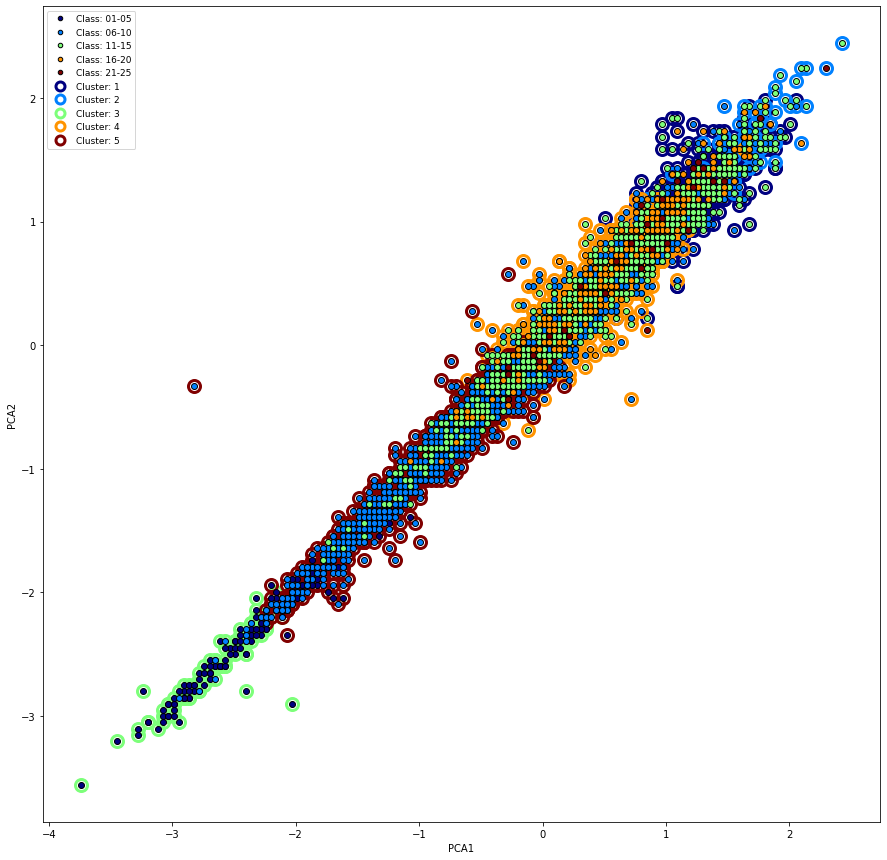
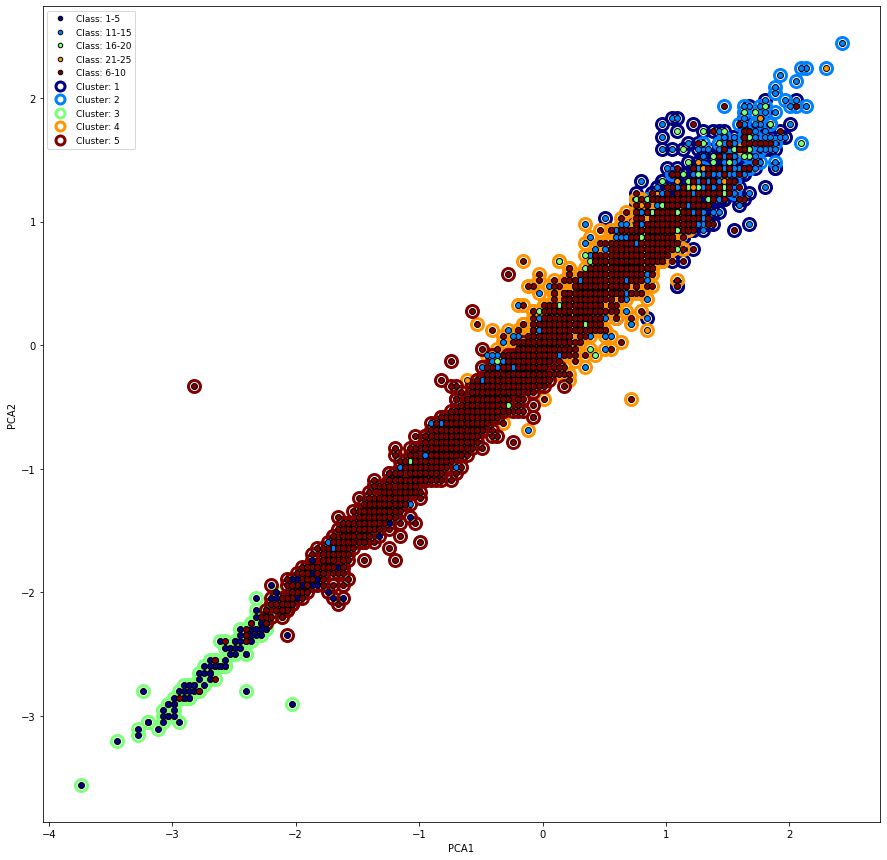
project 3 clustering final.. hopefully

Changed region(s): [[0.274, 0.1209, 0.9132, 0.7558], [0.1218, 0.0, 0.1522, 0.0907]]

diff --git a/Project3/Clustering.py b/Project3/Clustering.py
@@ -10,15 +10,12 @@ from scipy.cluster.hierarchy import linkage, fcluster, dendrogram
 # See algorithm 6, page 173 for insiparation 
 #Import data
 from main import *
+from main import scatterplot
 
 # Ignore FutureWarnings
 import warnings
 warnings.simplefilter(action='ignore', category=FutureWarning)
 
-######################################################################
-# NOTICE -  THE FOLLOWING CODE IS CURRENTLY MADE FOR THE WHOLE DATA SET
-#           I.E. THE INITIALLY CATEGORIZED OUTLIERS ARE IN THE DATA SET!
-######################################################################
 
 ################################################
 # EXCLUSION OF OULIERS
@@ -82,6 +79,16 @@ X = Newscaleddf[attributeNamesC[:5]]
 N, M = X.shape
 C = len(np.unique(Newscaleddf.RingsGroup))
 
+# Plot the data to illustrate data point distribution
+figure(1,figsize=(15,15))
+xlabel('PCA1')
+ylabel('PCA2')
+scatterplot(X, y=y)
+
+
+################################################
+# HIERARCHICAL CLISTERING
+################################################
 
 # Perform hierarchical/agglomerative clustering on data matrix
 #Method = 'single'
@@ -112,7 +119,7 @@ print("Accuracy of the heirarchical clustering:", accuracy_hierarchical)
 
 
 ################################################
-# Gaussian Mixture Model
+# GAUSSIAN MIXTURE MODEL
 ################################################
 
 # Range of K's to try
@@ -130,42 +137,42 @@ CVE = np.zeros((T,))
 
 # K-fold crossvalidation
 CV = model_selection.KFold(n_splits=10,shuffle=True)
-#
-#for t,K in enumerate(KRange):
-#        print('Fitting model for K={0}'.format(K))
-#
-#        # Fit Gaussian mixture model
-#        gmm = GaussianMixture(n_components=K, covariance_type=covar_type, 
-#                              n_init=reps, init_params=init_procedure,
-#                              tol=1e-6, reg_covar=1e-6).fit(X)
-#        
-#        # Get BIC and AIC
-#        BIC[t,] = gmm.bic(X)
-#        AIC[t,] = gmm.aic(X)
-#
-#        # For each crossvalidation fold
-#        for train_index, test_index in CV.split(X):
-#
-#            # extract training and test set for current CV fold
-#            X_train = X.to_numpy()[train_index,:]
-#            X_test = X.to_numpy()[test_index,:]
-#
-#            # Fit Gaussian mixture model to X_train
-#            gmm = GaussianMixture(n_components=K, covariance_type=covar_type, n_init=reps).fit(X_train)
-#
-#            # compute negative log likelihood of X_test
-#            CVE[t] += -gmm.score_samples(X_test).sum()
-#            
-#
-## Plot results
-#figure(3);
-#plot(KRange, BIC,'-*b')
-#plot(KRange, AIC,'-xr')
-#plot(KRange, 2*CVE,'-ok')
-#legend(['BIC', 'AIC', 'Crossvalidation'])
-#xlabel('K')
-#ylabel('Error')
-#show()
+
+for t,K in enumerate(KRange):
+        print('Fitting model for K={0}'.format(K))
+
+        # Fit Gaussian mixture model
+        gmm = GaussianMixture(n_components=K, covariance_type=covar_type, 
+                              n_init=reps, init_params=init_procedure,
+                              tol=1e-6, reg_covar=1e-6).fit(X)
+        
+        # Get BIC and AIC
+        BIC[t,] = gmm.bic(X)
+        AIC[t,] = gmm.aic(X)
+
+        # For each crossvalidation fold
+        for train_index, test_index in CV.split(X):
+
+            # extract training and test set for current CV fold
+            X_train = X.to_numpy()[train_index,:]
+            X_test = X.to_numpy()[test_index,:]
+
+            # Fit Gaussian mixture model to X_train
+            gmm = GaussianMixture(n_components=K, covariance_type=covar_type, n_init=reps).fit(X_train)
+
+            # compute negative log likelihood of X_test
+            CVE[t] += -gmm.score_samples(X_test).sum()
+            
+
+# Plot results
+figure(3);
+plot(KRange, BIC,'-*b')
+plot(KRange, AIC,'-xr')
+plot(KRange, 2*CVE,'-ok')
+legend(['BIC', 'AIC', 'Crossvalidation'])
+xlabel('K')
+ylabel('Error')
+show()
 
 ### Computing the GMM
 # With the above, the K to test on is determined
@@ -189,15 +196,38 @@ if cov_type.lower() == 'diag':
         temp_m = np.zeros([M,M])
         new_covs[count] = np.diag(elem)
         count += 1
-
     covs = new_covs
 
 # Plot results:
-#figure(figsize=(14,9))
-#clusterplot(X, clusterid=cls, centroids=cds, y=y, covars=covs)
-#plt.legend(legend_items, numpoints=1, markerscale=.75, prop={'size': 9})
-#show()
+
 figure(figsize=(14,9))
 idx = [0,1] # feature index, choose two features to use as x and y axis in the plot
+xlabel('PCA1')
+ylabel('PCA2')
 clusterplot(X.to_numpy()[:,idx], clusterid=cls, centroids=cds[:,idx], y=y, covars=covs[:,idx,:][:,:,idx])
 show()
+
+
+################################################
+# HIERARCHICAL CLUSTERING WITH GMM ESTIMATED NUMBER OF COMPONENTS
+################################################
+
+# Perform hierarchical/agglomerative clustering on data matrix
+#Method = 'single'
+Method = 'complete'
+#Method = 'centroid'
+Metric = 'euclidean'
+
+Z = linkage(X, method=Method, metric=Metric)
+
+# Compute and display clusters by thresholding the dendrogram
+Maxclust = 7#np.where(BIC == min(BIC))[0][0]
+cls = fcluster(Z, criterion='maxclust', t=Maxclust)
+figure(1,figsize=(15,15))
+xlabel('PCA1')
+ylabel('PCA2')
+clusterplot(X, cls.reshape(cls.shape[0],1), y=y)
+
+# Calculate accuracy
+accuracy_hierarchical = sum([cls[i] == y_classNames[i] for i in range(len(cls))]) / N
+print("Accuracy of the heirarchical clustering with", Maxclust, "components:", accuracy_hierarchical)

diff --git a/Project3/main.py b/Project3/main.py
@@ -44,9 +44,37 @@ df_noOutliers = df_noOutliers[df_noOutliers.Height > 0]
 
 
 ##########################
-# REGRESSION
+# FUNCTION DEFINITIONS
 ##########################
 
+# Scatterplot of data
+def scatterplot(X, centroids='None', y='None', covars='None'):
+    X = np.asarray(X)
+    if type(y) is str and y=='None':
+        y = np.zeros((X.shape[0],1))
+    else:
+        y = np.asarray(y)
+    if type(centroids) is not str:
+        centroids = np.asarray(centroids)
+    C = np.size(np.unique(y))
+    ncolors = np.max([C])
+    
+    # plot data points color-coded by class, cluster markers and centroids
+    #hold(True)
+    colors = [0]*ncolors
+    for color in range(ncolors):
+        colors[color] = plt.cm.jet(color/(ncolors-1))[:3]
+    for i,cs in enumerate(np.unique(y)):
+        plt.plot(X[(y==cs).ravel(),0], X[(y==cs).ravel(),1], 'o', markeredgecolor='k', markerfacecolor=colors[i],markersize=6, zorder=2)
+    if type(centroids) is not str:        
+        for cd in range(centroids.shape[0]):
+            plt.plot(centroids[cd,0], centroids[cd,1], '*', markersize=22, markeredgecolor='k', markerfacecolor=colors[cd], markeredgewidth=2, zorder=3)
+    
+    # create legend        
+    legend_items = np.unique(y).tolist()
+    for i in range(len(legend_items)):
+        if i<C: legend_items[i] = 'Class: {0}'.format(legend_items[i]);
+    plt.legend(legend_items, numpoints=1, markerscale=.75, prop={'size': 9})
 
 
 
